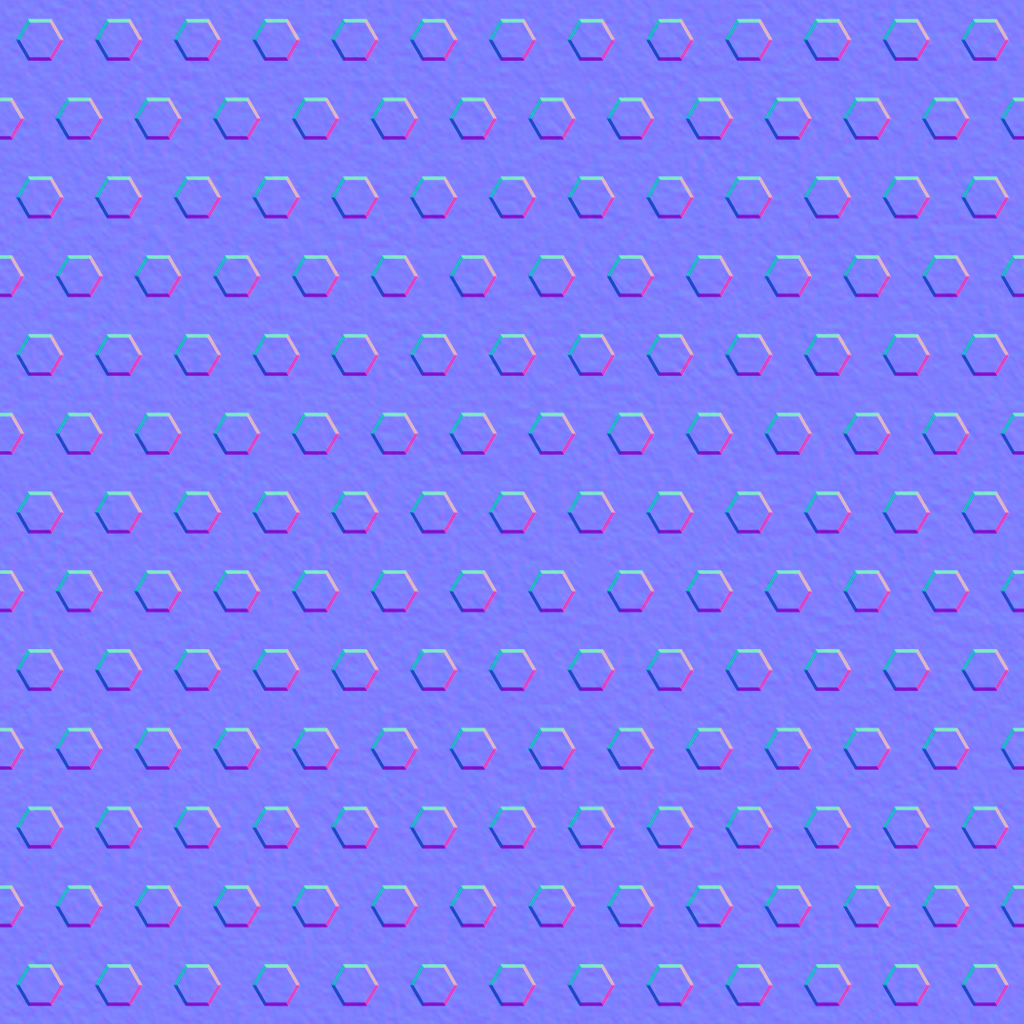
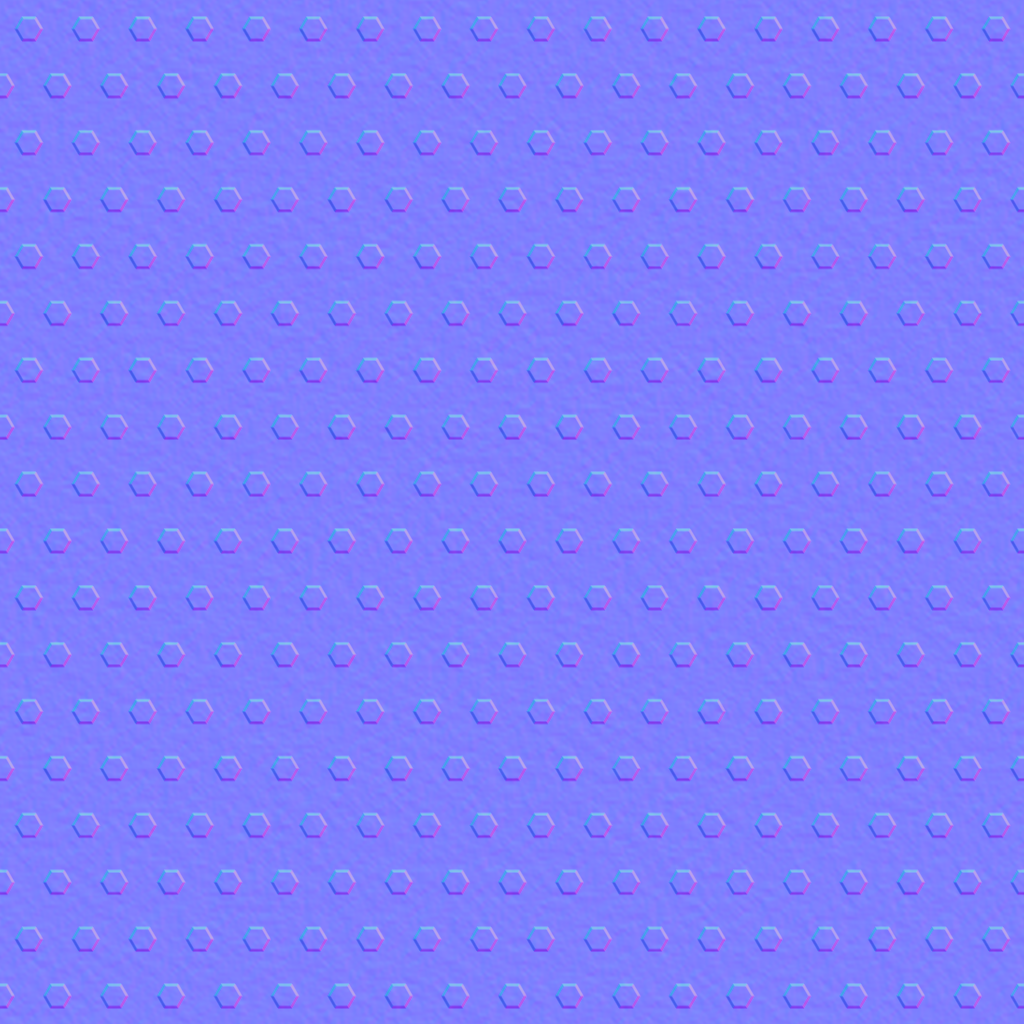
Clean reflections, finer glove leather, low silicone grip print (v1.11.0)
- InkDrift/Realistic computes its own indirect light. The environment
  reflection takes Fresnel from the smooth normal and applies horizon
  occlusion, so bumpy detail normals at the silhouette no longer sparkle
  with the reflection probe. Very bright probe texels are clamped.
- The fabric sheen's grazing factor uses the smooth normal as well.
- The glove back and knuckle leather grain is scaled 2.5x finer and
  softened (driving-glove nappa, not upholstery hide).
- The palm silicone print has smaller dots with low relief.

Changed region(s): [[0.0, 0.0, 1.0, 1.0]]

diff --git a/Game/Assets/InkDrift/Scripts/Runtime/Cockpit/DriverModel.cs b/Game/Assets/InkDrift/Scripts/Runtime/Cockpit/DriverModel.cs
@@ -118,9 +118,10 @@ namespace InkDrift
             { "M_DrvStripe", new Look { color = new Color(0.84f, 0.84f, 0.86f), scan = "nomex_weave", desat = 1f, unit = 0.04f, bump = 1.0f, smooth = 0.13f, quilt = 0.5f, sheen = 0.1f, sheenColor = Color.white } },
             { "M_DrvStretch", new Look { color = new Color(0.1f, 0.12f, 0.2f), scan = "nomex_weave", desat = 1f, unit = 0.04f, bump = 1.0f, smooth = 0.12f, sheen = 0.1f, sheenColor = new Color(0.5f, 0.6f, 0.9f) } },
             { "M_DrvKnit", new Look { color = new Color(0.075f, 0.075f, 0.085f), scan = "knit", desat = 1f, unit = 0.04f, bump = 1.0f, smooth = 0.09f, sheen = 0.1f, sheenColor = new Color(0.5f, 0.5f, 0.55f) } },
-            // scanned full-grain leather: black, satin, scuffed lighter on the knuckles and edges
-            { "M_DrvGloveBack", new Look { color = new Color(0.075f, 0.075f, 0.08f), scan = "leather_grain", desat = 1f, unit = 0.04f, bump = 0.9f, smooth = 0.21f, wear = 0.45f, wearColor = new Color(0.22f, 0.22f, 0.24f) } },
-            { "M_DrvKnuckle", new Look { color = new Color(0.5f, 0.05f, 0.075f), scan = "leather_grain", desat = 1f, unit = 0.04f, bump = 0.9f, smooth = 0.2f, wear = 0.35f, wearColor = new Color(0.66f, 0.28f, 0.3f) } },
+            // scanned full-grain leather: black, satin, scuffed lighter on the knuckles and edges. The scan is upholstery
+            // hide, so its grain is scaled 2.5x finer and softened toward the thin nappa of a driving glove
+            { "M_DrvGloveBack", new Look { color = new Color(0.075f, 0.075f, 0.08f), scan = "leather_grain", desat = 1f, unit = 0.1f, bump = 0.5f, smooth = 0.21f, wear = 0.45f, wearColor = new Color(0.22f, 0.22f, 0.24f) } },
+            { "M_DrvKnuckle", new Look { color = new Color(0.5f, 0.05f, 0.075f), scan = "leather_grain", desat = 1f, unit = 0.1f, bump = 0.5f, smooth = 0.2f, wear = 0.35f, wearColor = new Color(0.66f, 0.28f, 0.3f) } },
             // scanned suede palm (grip print from the procedural map rides on top as the macro layer)
             { "M_DrvGlovePalm", new Look { color = new Color(0.12f, 0.12f, 0.13f), scan = "suede", desat = 1f, unit = 0.04f, bump = 1.0f, smooth = 0.14f, normal = "suede_n", quilt = 0.5f, sheen = 0.1f, sheenColor = new Color(0.6f, 0.6f, 0.65f) } },
             { "M_DrvStrap", new Look { color = new Color(0.1f, 0.1f, 0.11f), normal = "velcro_n", bump = 0.9f, smooth = 0.1f, sheen = 0.08f, sheenColor = new Color(0.5f, 0.5f, 0.5f) } },

diff --git a/Tools/driver/driver_textures.py b/Tools/driver/driver_textures.py
@@ -6,7 +6,7 @@ Normal maps (OpenGL convention, *_n.png so Unity imports them as normal maps):
   suit_n      quilted multi-layer Nomex: diamond quilting with stitch rows over a fine twill weave (tile = 8 cm)
   twill_n     plain twill for stripes and stretch panels                                             (tile = 4 cm)
   leather_n   glove back: pebbled full-grain leather                                                  (tile = 4 cm)
-  suede_n     palm: brushed suede with a printed silicone grip pattern                                (tile = 4 cm)
+  suede_n     palm: brushed suede with a low printed silicone grip pattern                            (tile = 4 cm)
   knit_n      ribbed knit cuff                                                                         (tile = 4 cm)
   velcro_n    hook-and-loop strap                                                                      (tile = 4 cm)
 Decals (RGBA, alpha-clipped): glove_logo, patch_ink, patch_flag, patch_fia.
@@ -126,16 +126,17 @@ def leather():
 def suede():
     x, y = grid()
     fibre = tile_noise(128, 2, 21) * 0.5 + tile_noise(64, 2, 22) * 0.3
-    # printed silicone grip: staggered small hexagon-ish dots, 3 mm pitch on a 4 cm tile
-    k = 13
+    # printed silicone grip: staggered small hexagon-ish dots, ~2.2 mm pitch on a 4 cm tile. A print stands only a
+    # fraction of a millimetre proud, so the relief is low (taller dots read as pimply skin)
+    k = 18
     gy = y * k
     row = np.floor(gy)
     gx = x * k + (row % 2) * 0.5
     cx, cy = gx - np.floor(gx) - 0.5, gy - row - 0.5
     d = np.maximum(np.abs(cx) * 1.0 + np.abs(cy) * 0.58, np.abs(cy) * 1.15)
-    dots = np.clip((0.30 - d) / 0.04, 0, 1)
-    h = fibre * 0.25 + dots * 0.8
-    save(height_to_normal(h, 6.0), "suede_n.png")
+    dots = np.clip((0.25 - d) / 0.05, 0, 1)
+    h = fibre * 0.25 + dots * 0.3
+    save(height_to_normal(h, 5.0), "suede_n.png")
 
 
 def knit():

diff --git a/Game/Assets/InkDrift/Scripts/Editor/ProjectSetup.cs b/Game/Assets/InkDrift/Scripts/Editor/ProjectSetup.cs
@@ -44,7 +44,7 @@ namespace InkDrift.EditorTools
             PlayerSettings.companyName = "Gazhenko";
             PlayerSettings.productName = "INK DRIFT TOKYO";
             PlayerSettings.SetApplicationIdentifier(UnityEditor.Build.NamedBuildTarget.Standalone, "com.gazhenko.inkdrift");
-            PlayerSettings.bundleVersion = "1.10.0";
+            PlayerSettings.bundleVersion = "1.11.0";
             PlayerSettings.colorSpace = ColorSpace.Linear;
             PlayerSettings.defaultScreenWidth = 1920;
             PlayerSettings.defaultScreenHeight = 1080;

diff --git a/README.md b/README.md
@@ -98,13 +98,13 @@ Clutch-kick (hold the clutch with throttle, release) to snap the rear loose mid-
 Paste this into Claude Code, Codex, Cursor or any other coding agent that can run commands on your computer:
 
 ```text
-Install INK DRIFT: TOKYO v1.10.0 on this computer from its official GitHub release, then tell me how to start it.
+Install INK DRIFT: TOKYO v1.11.0 on this computer from its official GitHub release, then tell me how to start it.
 
-Release: https://github.com/gazhenko/ink-drift-tokyo/releases/tag/v1.10.0
-Download each file from https://github.com/gazhenko/ink-drift-tokyo/releases/download/v1.10.0/<file>
-  macOS, Apple Silicon or Intel  InkDriftTokyo-v1.10.0-macOS-universal.zip  contains "INK DRIFT TOKYO.app"
-  Windows 10/11, x64             InkDriftTokyo-v1.10.0-Windows-x64.zip      files at the zip root; the game is InkDriftTokyo.exe
-  Linux, x64                     InkDriftTokyo-v1.10.0-Linux-x64.tar.gz     files at the archive root; the game is InkDriftTokyo.x86_64
+Release: https://github.com/gazhenko/ink-drift-tokyo/releases/tag/v1.11.0
+Download each file from https://github.com/gazhenko/ink-drift-tokyo/releases/download/v1.11.0/<file>
+  macOS, Apple Silicon or Intel  InkDriftTokyo-v1.11.0-macOS-universal.zip  contains "INK DRIFT TOKYO.app"
+  Windows 10/11, x64             InkDriftTokyo-v1.11.0-Windows-x64.zip      files at the zip root; the game is InkDriftTokyo.exe
+  Linux, x64                     InkDriftTokyo-v1.11.0-Linux-x64.tar.gz     files at the archive root; the game is InkDriftTokyo.x86_64
   Checksums                      SHA256SUMS.txt
 
 1. Detect the OS and CPU. If this computer is not one of the three platforms above (for example Windows or Linux on ARM), stop and tell me.
@@ -125,7 +125,7 @@ Download the archive for your computer from the [latest release](../../releases/
 - **macOS** (Apple Silicon + Intel): unzip, right-click `INK DRIFT TOKYO.app` → Open (the build is unsigned).
   If macOS says it's damaged: `xattr -dr com.apple.quarantine "INK DRIFT TOKYO.app"`.
 - **Windows** (x64): extract the zip into a new folder and run `InkDriftTokyo.exe`.
-- **Linux** (x64): extract into a new folder with `tar -xzf InkDriftTokyo-v1.10.0-Linux-x64.tar.gz`, then
+- **Linux** (x64): extract into a new folder with `tar -xzf InkDriftTokyo-v1.11.0-Linux-x64.tar.gz`, then
   `chmod +x InkDriftTokyo.x86_64 && ./InkDriftTokyo.x86_64` (Vulkan or OpenGL 4.5).
 
 The Windows and Linux archives have no top-level folder, so extract them into an empty folder of their own.

diff --git a/Docs/RELEASE_NOTES.md b/Docs/RELEASE_NOTES.md
@@ -1,8 +1,13 @@
-# INK DRIFT: TOKYO — v1.10.0: a natural grip
+# INK DRIFT: TOKYO — v1.11.0: cleaner materials
 
 A comic-book cel-shaded drift racer through Tokyo. **Watch the trailer:** [INK-DRIFT-TOKYO-trailer.mp4](https://github.com/gazhenko/ink-drift-tokyo/releases/download/v1.0.0/INK-DRIFT-TOKYO-trailer.mp4).
 
-## What's new in 1.10.0
+## What's new in 1.11.0
+- **No more sparkling edges.** Gloves, suit and the leather and suede in the cockpit glittered with bright specks along their edges. Each grain of the material near the silhouette reflected the sky at full strength. Reflections now take their Fresnel from the smooth surface and drop any reflection that would point back into the material, so edges stay clean.
+- **Finer glove leather.** The glove backs and knuckle guards now have the fine grain of thin driving-glove nappa instead of coarse upholstery hide.
+- **A real silicone grip print.** The palm's grip dots are smaller and stand only slightly proud, as a printed pattern does, instead of reading as bumpy skin.
+
+## 1.10.0: a natural grip
 - **A natural grip on the wheel.** At 9 and 3 o'clock the driver's wrists were bent about 100 degrees, further than a real wrist can go, so the gloves folded like a bent hose. Each fist now settles on the rim as a real hand does. It sits on the outside of the rim with the knuckles forward and the rim running diagonally across the palm, and the thumb lies over the spoke.
 - **The wrist stays within a comfortable bend** (about 40 degrees) in every position on the rim. The grip adjusts smoothly as the wheel turns and as the hands move hand over hand.
 
